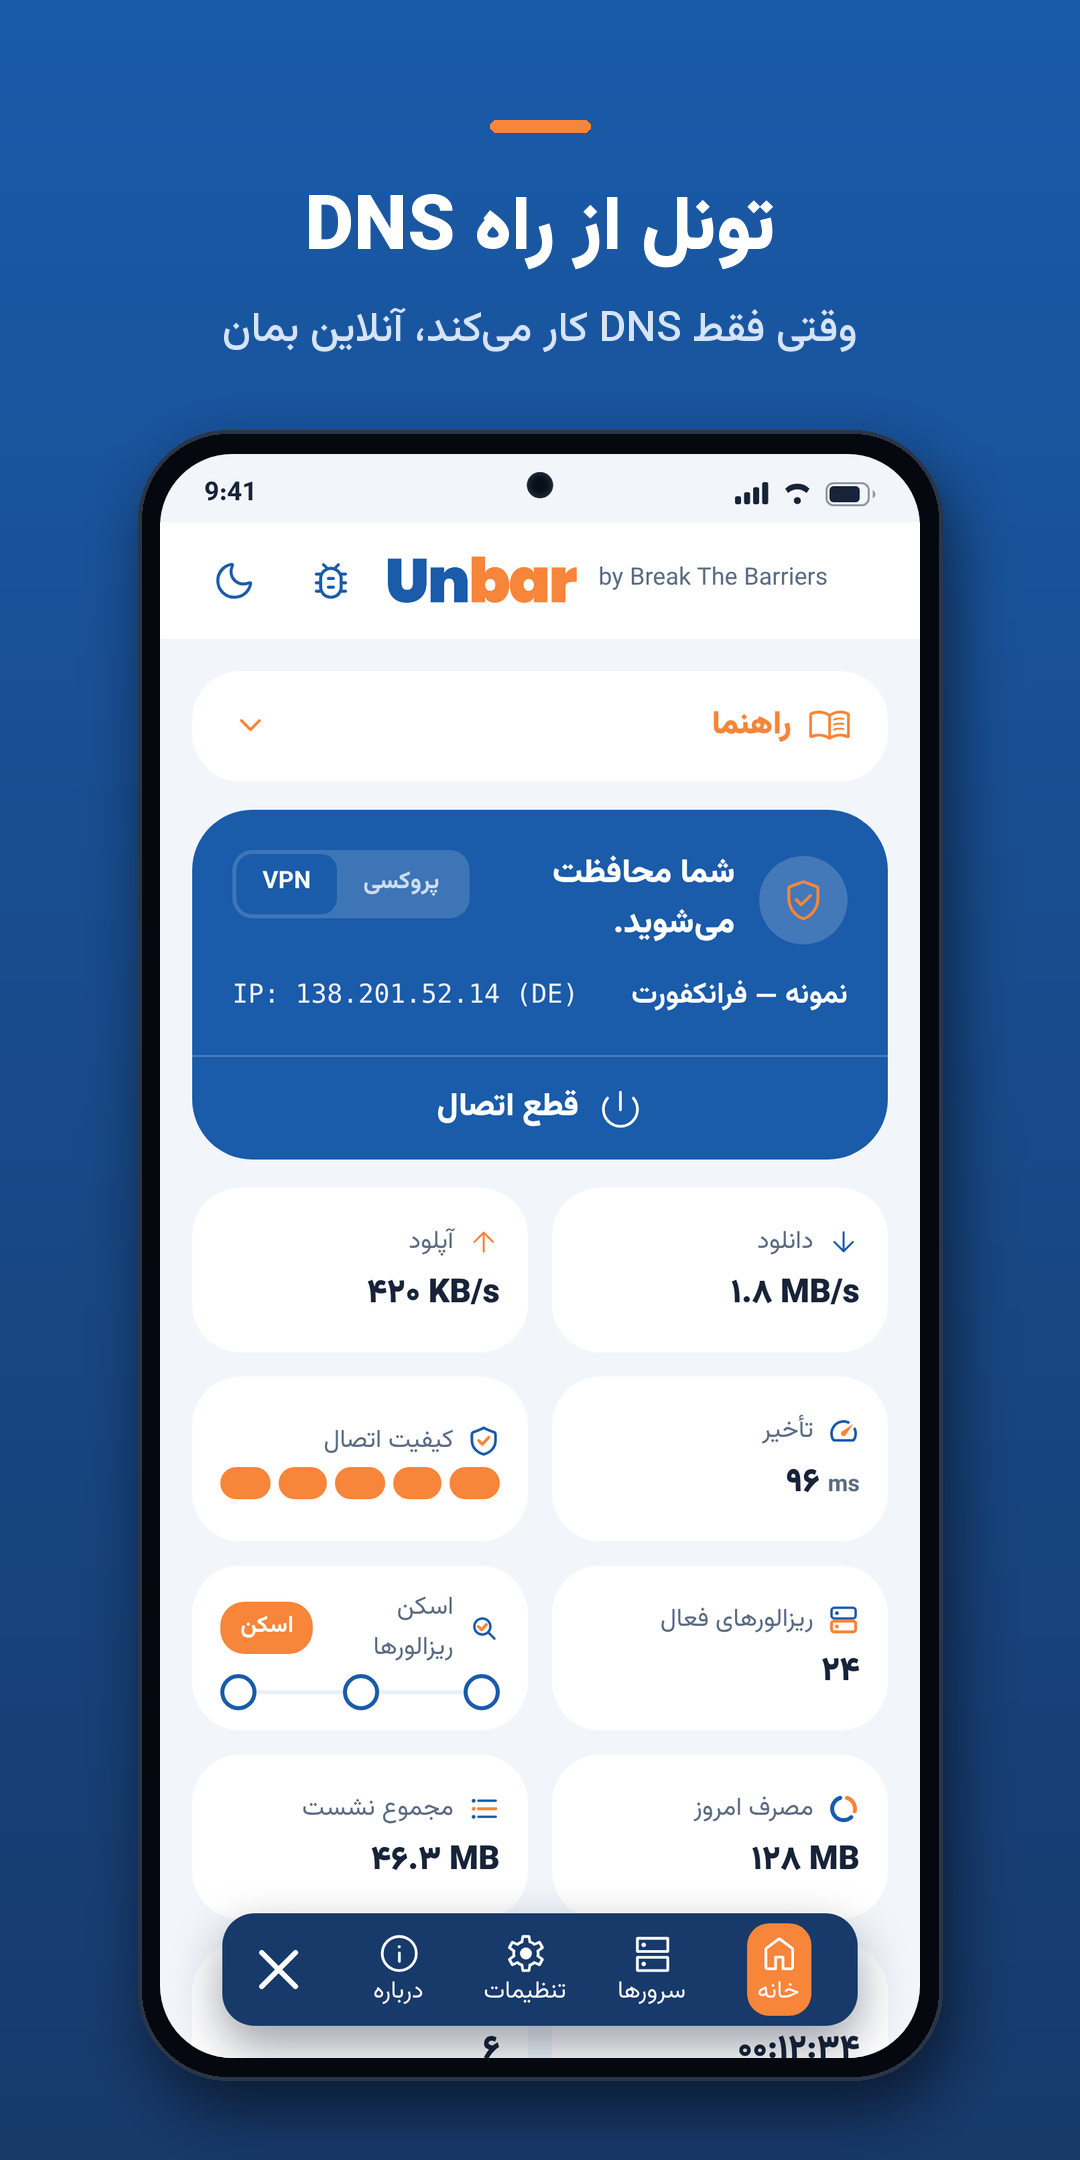
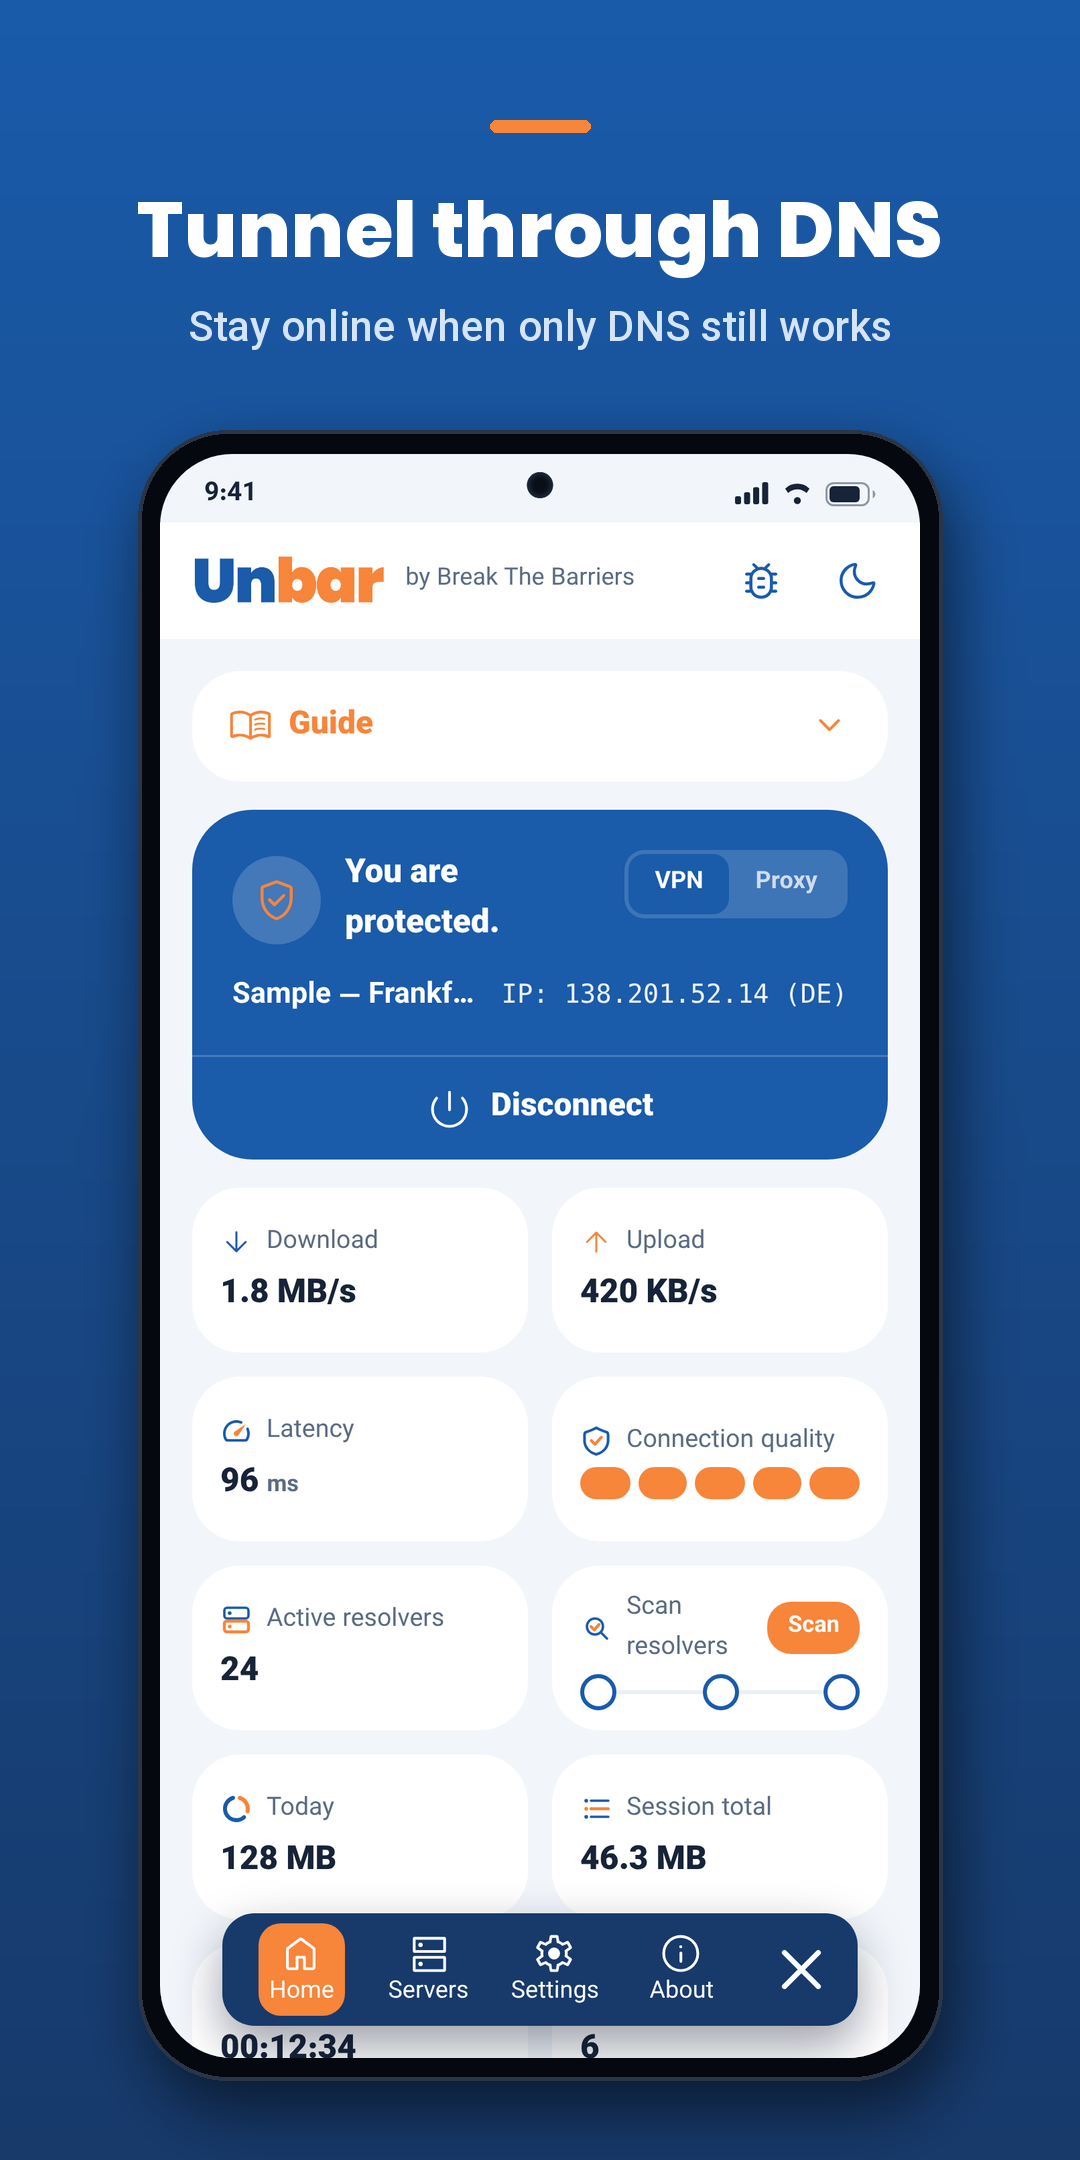
Screenshots: English set on GitHub and F-Droid (fa uses the same)

diff --git a/README.md b/README.md
@@ -30,10 +30,10 @@
 ## اسکرینشاتها
 
 <p align="center">
-  <img src="fastlane/metadata/android/fa/images/phoneScreenshots/1.png" width="180">
-  <img src="fastlane/metadata/android/fa/images/phoneScreenshots/2.png" width="180">
-  <img src="fastlane/metadata/android/fa/images/phoneScreenshots/4.png" width="180">
-  <img src="fastlane/metadata/android/fa/images/phoneScreenshots/8.png" width="180">
+  <img src="fastlane/metadata/android/en-US/images/phoneScreenshots/1.png" width="180">
+  <img src="fastlane/metadata/android/en-US/images/phoneScreenshots/2.png" width="180">
+  <img src="fastlane/metadata/android/en-US/images/phoneScreenshots/4.png" width="180">
+  <img src="fastlane/metadata/android/en-US/images/phoneScreenshots/8.png" width="180">
 </p>
 
 ## آنبار چیست
